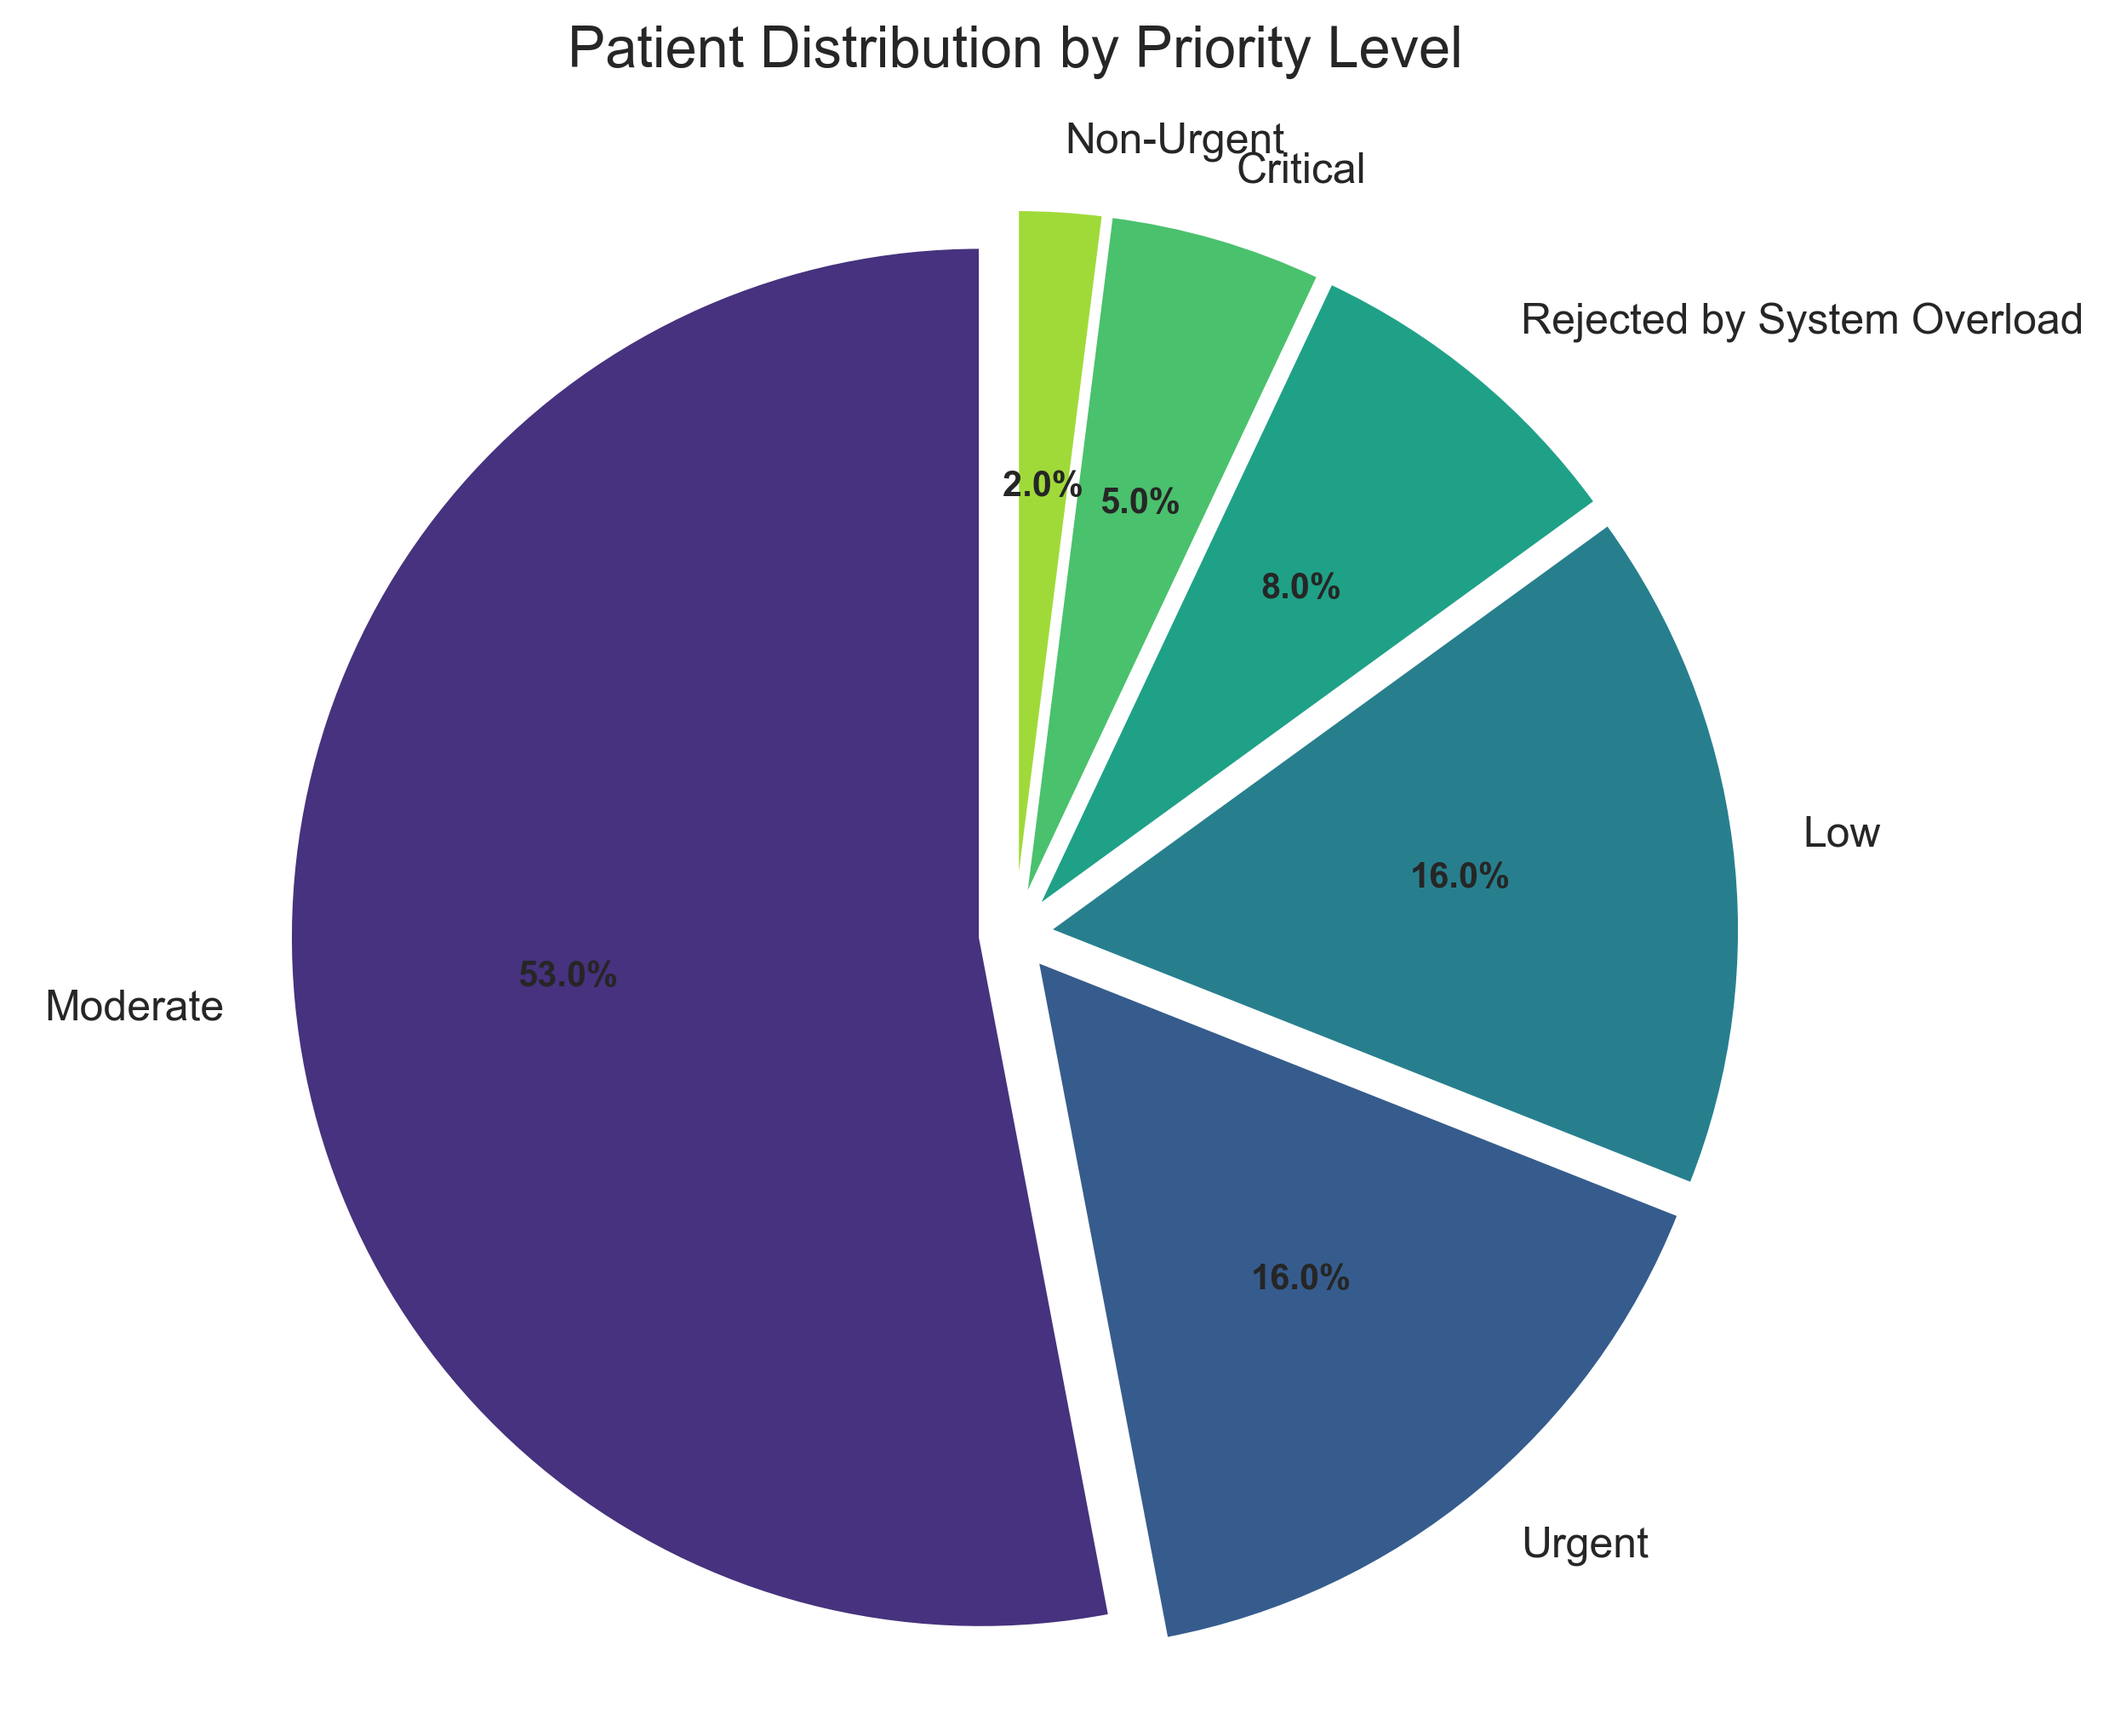
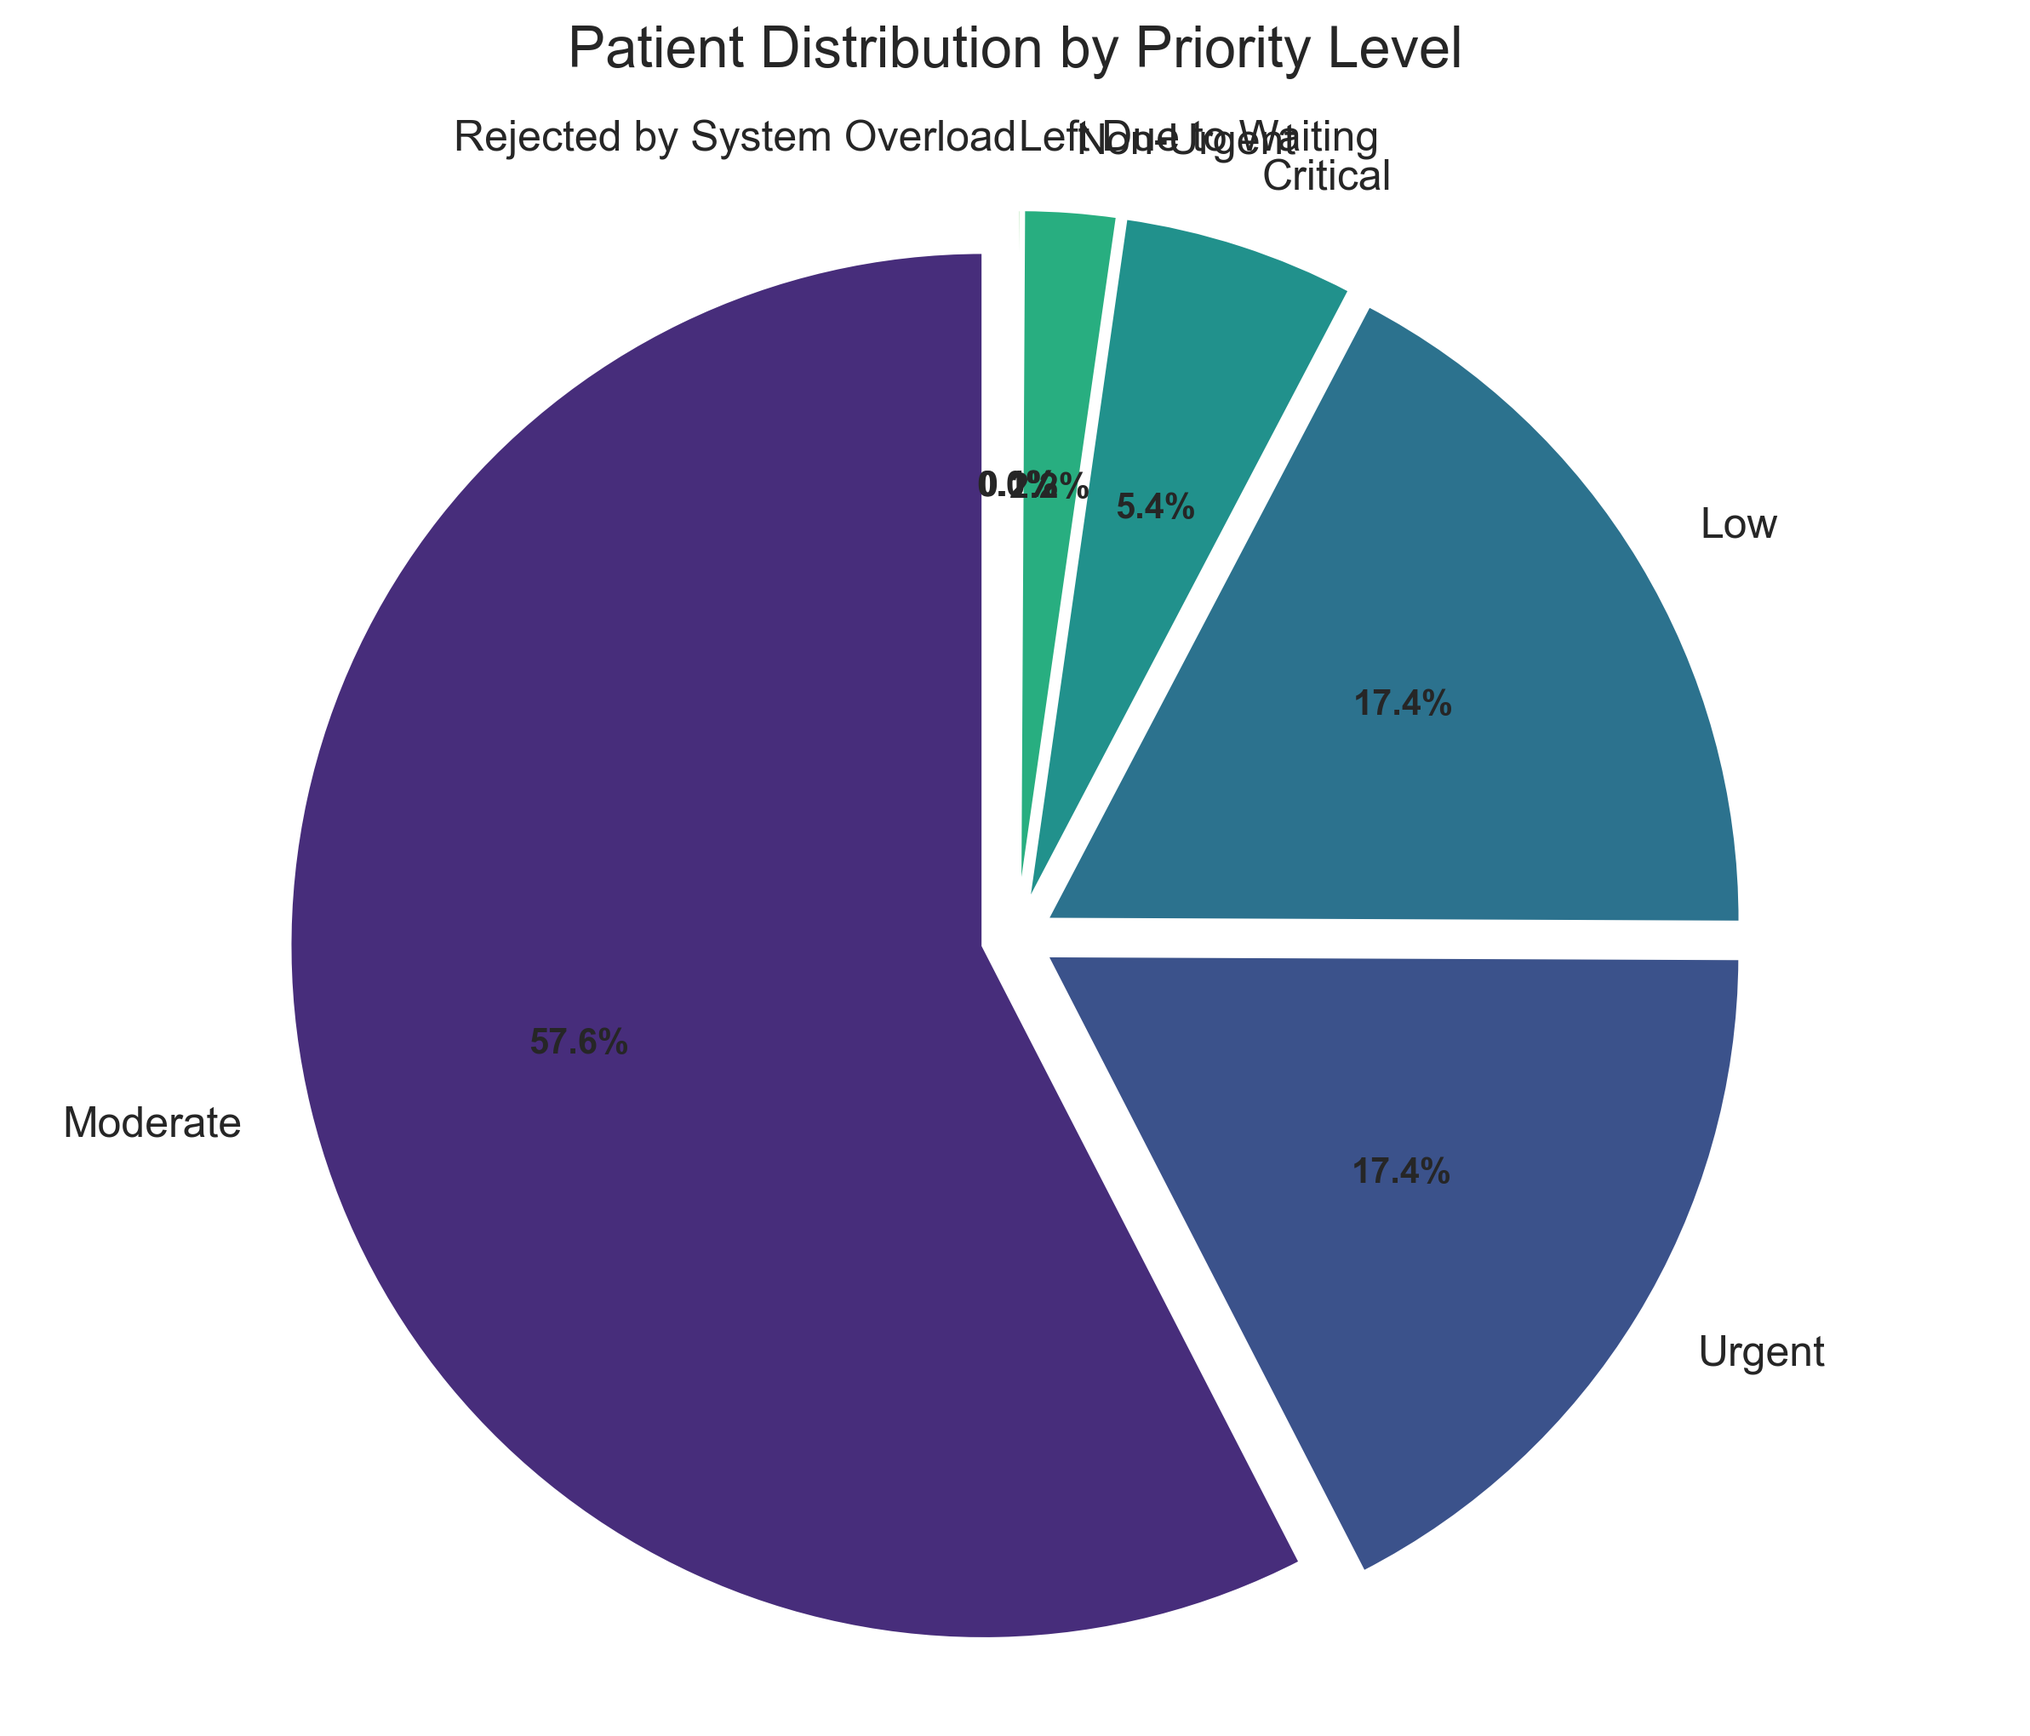
first commit

diff --git a/simulation.py b/simulation.py
@@ -43,6 +43,7 @@ class Simulation():
                   "proportion_totalLowPatients": 0,
                   "proportion_totalNonUrgentPatients": 0,
                   "proportion_totalPatientsDeclinedAccess": 0,
+                  "proportion_totalPatientsLeftDueToWaiting": 0,
                   # 3. Arrival metrics
                   "arrival_totalArrivalTime": 0,
                   # 4. Reception metrics
@@ -111,6 +112,7 @@ class Simulation():
                   "proportion_LowPatients": 0,
                   "proportion_NonUrgentPatients": 0,
                   "proportion_totalPatientsDeclinedAccess": 0,
+                  "proportion_totalPatientsLeftDueToWaiting": 0,
                   # 3. Arrival metrics
                   "arrival_waitingTime_average": 0,
                   "arrival_waitingTime_total": 0,
@@ -215,6 +217,7 @@ class Simulation():
                         self.metrics["proportion_ModeratePatients"] = self.metricsValues["proportion_totalModeratePatients"] / self.metricsValues["general_totalPatients"]
                         self.metrics["proportion_LowPatients"] = self.metricsValues["proportion_totalLowPatients"] / self.metricsValues["general_totalPatients"]
                         self.metrics["proportion_NonUrgentPatients"] = self.metricsValues["proportion_totalNonUrgentPatients"] / self.metricsValues["general_totalPatients"]
+                        self.metrics["proportion_totalPatientsLeftDueToWaiting"] = self.metricsValues["proportion_totalPatientsLeftDueToWaiting"] / self.metricsValues["general_totalPatients"]
                         self.metrics["proportion_totalPatientsDeclinedAccess"] = self.metricsValues["proportion_totalPatientsDeclinedAccess"]
                         # 3. Arrival
                         self.metrics["arrival_waitingTime_average"] = self.metricsValues["arrival_totalArrivalTime"] / self.metricsValues["general_totalPatients"]
@@ -354,11 +357,11 @@ class Simulation():
                   return False
                   
             # Check if wait time exceeds threshold (30 minutes)
-            if wait_time >= 30:
+            if wait_time >= self.variables["PATIENT"]["patienceTime"]:
                   # 80% chance of leaving (8 out of 10)
-                  if random.random() < 0.8:
+                  if random.random() < self.variables["PATIENT"]["leaveChance"]:
                         if self._isWarmUpOver_():
-                              self.metricsValues["proportion_totalPatientsDeclinedAccess"] += 1
+                              self.metricsValues["proportion_totalPatientsLeftDueToWaiting"] += 1
                         return True
             
             return False

diff --git a/plots.py b/plots.py
@@ -47,6 +47,7 @@ def create_patient_distribution_plot(df):
         'Moderate': df['proportion_ModeratePatients'].mean(),
         'Low': df['proportion_LowPatients'].mean(),
         'Non-Urgent': df['proportion_NonUrgentPatients'].mean(),
+        'Left Due to Waiting': df['proportion_totalPatientsLeftDueToWaiting'].mean() / df['general_totalPatients'].mean(),
         'Rejected by System Overload': df['proportion_totalPatientsDeclinedAccess'].mean() / df['general_totalPatients'].mean()
     }
     
